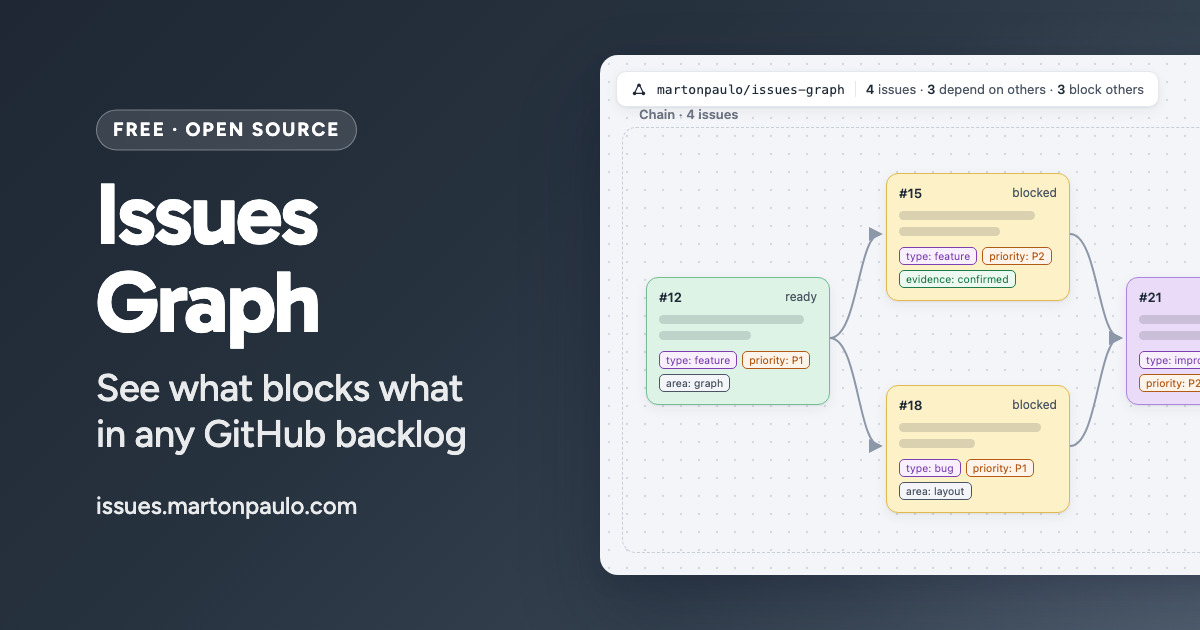
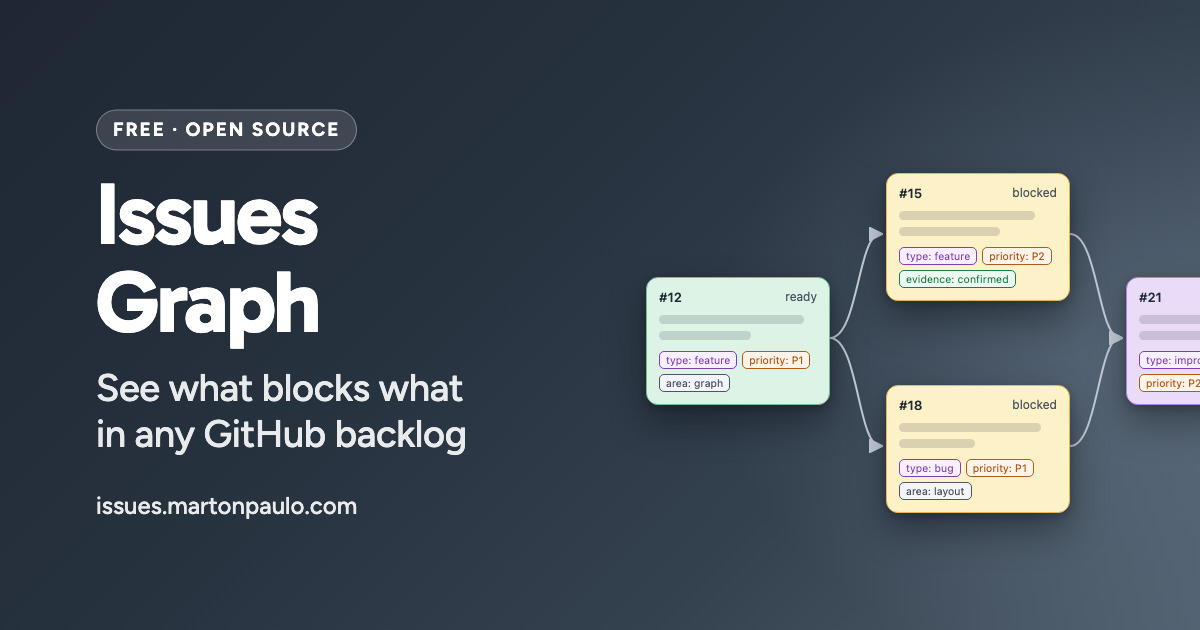
feat: frameless social card
The drawing now floats on the gradient without its container window, the counter
badges and frame lines are gone, and the visual's cut edges fade into the ground
(owner decision, 2026-09-11: a second card pattern for products whose content reads
on its own).

diff --git a/design/social-card/social-card.html b/design/social-card/social-card.html
@@ -36,7 +36,7 @@ h1 { margin: 0; font: 700 88px/1 "Gabarito", sans-serif; letter-spacing: -0.03em
 .card { --gradient: linear-gradient(135deg,#1e2733 0%,#27323f 40%,#34414f 70%,#51606f 100%); --glow: radial-gradient(640px 520px at 94% 55%,rgba(170,190,215,.22),transparent 65%); --ink: #fff; --ink-soft: rgba(255,255,255,.9);
         --pill-bg: rgba(255,255,255,.12); --pill-line: rgba(255,255,255,.34); }
 .canvas{left:600px;top:50%;transform:translateY(-50%);width:760px;height:520px;border-radius:18px;overflow:hidden;
- background:#f3f5f8 radial-gradient(circle,#d4dae2 1.3px,transparent 1.6px) 0 0/18px 18px}
+ background:none}
 .tool{position:absolute;left:16px;top:16px;display:flex;align-items:center;gap:10px;padding:9px 14px;background:#fff;border:1px solid #e3e7ee;border-radius:10px;
  box-shadow:0 1px 2px rgba(31,42,55,.06),0 4px 14px rgba(31,42,55,.06);font-size:13px;color:#4b5563;white-space:nowrap}
 .tool b{color:#1f2a37;font-weight:600}.tool .repo{font-family:ui-monospace,Menlo,monospace;color:#1f2a37;font-size:13px}
@@ -51,6 +51,10 @@ h1 { margin: 0; font: 700 88px/1 "Gabarito", sans-serif; letter-spacing: -0.03em
 .chips{display:flex;flex-wrap:wrap;gap:5px}.chips u{text-decoration:none;font-size:10.5px;padding:2px 6px;border-radius:5px;border:1px solid;white-space:nowrap}
 .c-type{color:#7e3fb0;border-color:#cfa9ec;background:#f8f0fe}.c-pri{color:#b45a17;border-color:#f1b98a;background:#fff4ea}
 .c-ev{color:#1f7a4a;border-color:#95d3ae;background:#ecf9f1}.c-area{color:#4b5563;border-color:#cbd2dc;background:#f3f5f8}
+.canvas.win{box-shadow:none}
+.frame{border-color:rgba(255,255,255,.28)}.frame span{color:rgba(255,255,255,.75)}
+.ic{box-shadow:0 18px 36px rgba(0,0,0,.35),0 3px 8px rgba(0,0,0,.2)}
+.edges path{stroke:#c3ccd8}.edges marker path{fill:#c3ccd8}
 </style>
 <div class="card">
   <div class="copy">
@@ -61,10 +65,8 @@ h1 { margin: 0; font: 700 88px/1 "Gabarito", sans-serif; letter-spacing: -0.03em
     <p class="domain">issues.martonpaulo.com</p>
   </div>
   <div class="win canvas ui">
-    <div class="tool"><svg width="16" height="16" viewBox="0 0 32 32"><g fill="none" stroke="#1f2a37" stroke-width="2.4" stroke-linecap="round"><path d="M13.4 10.8 8.8 21.2M18.6 10.8l4.6 10.4M10.8 24.8h10.4"/></g><g fill="#1f2a37"><circle cx="16" cy="8.4" r="3.6"/><circle cx="7.2" cy="24.8" r="3.6"/><circle cx="24.8" cy="24.8" r="3.6"/></g></svg><span class="repo">martonpaulo/issues-graph</span><span class="sep"></span><span><b>4</b> issues · <b>3</b> depend on others · <b>3</b> block others</span></div>
-    <div class="frame"><span>Chain · 4 issues</span></div>
-    <svg class="edges" width="760" height="520"><defs><marker id="ah" viewBox="0 0 10 10" refX="8" refY="5" markerWidth="7" markerHeight="7" orient="auto"><path d="M0 0L10 5L0 10z" fill="#8c97a8"/></marker></defs>
-<path d="M230 283 C258.0 283 258.0 179 280 179" fill="none" stroke="#8c97a8" stroke-width="2" marker-end="url(#ah)"/><path d="M230 283 C258.0 283 258.0 391 280 391" fill="none" stroke="#8c97a8" stroke-width="2" marker-end="url(#ah)"/><path d="M470 179 C498.0 179 498.0 283 520 283" fill="none" stroke="#8c97a8" stroke-width="2" marker-end="url(#ah)"/><path d="M470 391 C498.0 391 498.0 283 520 283" fill="none" stroke="#8c97a8" stroke-width="2" marker-end="url(#ah)"/></svg>
+    <svg class="edges" width="760" height="520"><defs><marker id="ah" viewBox="0 0 10 10" refX="8" refY="5" markerWidth="7" markerHeight="7" orient="auto"><path d="M0 0L10 5L0 10z" fill="#c3ccd8"/></marker></defs>
+<path d="M230 283 C258.0 283 258.0 179 280 179" fill="none" stroke="#c3ccd8" stroke-width="2" marker-end="url(#ah)"/><path d="M230 283 C258.0 283 258.0 391 280 391" fill="none" stroke="#c3ccd8" stroke-width="2" marker-end="url(#ah)"/><path d="M470 179 C498.0 179 498.0 283 520 283" fill="none" stroke="#c3ccd8" stroke-width="2" marker-end="url(#ah)"/><path d="M470 391 C498.0 391 498.0 283 520 283" fill="none" stroke="#c3ccd8" stroke-width="2" marker-end="url(#ah)"/></svg>
     <div class="ic ready" style="left:46px;top:222px"><div class="h">#12<i>ready</i></div><div class="t"><span class="bar" style="display:block;width:92%"></span><span class="bar" style="display:block;width:58%"></span></div><div class="chips"><u class="c-type">type: feature</u><u class="c-pri">priority: P1</u><u class="c-area">area: graph</u></div></div><div class="ic blocked" style="left:286px;top:118px"><div class="h">#15<i>blocked</i></div><div class="t"><span class="bar" style="display:block;width:86%"></span><span class="bar" style="display:block;width:64%"></span></div><div class="chips"><u class="c-type">type: feature</u><u class="c-pri">priority: P2</u><u class="c-ev">evidence: confirmed</u></div></div><div class="ic blocked" style="left:286px;top:330px"><div class="h">#18<i>blocked</i></div><div class="t"><span class="bar" style="display:block;width:90%"></span><span class="bar" style="display:block;width:48%"></span></div><div class="chips"><u class="c-type">type: bug</u><u class="c-pri">priority: P1</u><u class="c-area">area: layout</u></div></div><div class="ic att" style="left:526px;top:222px"><div class="h">#21<i>needs attention</i></div><div class="t"><span class="bar" style="display:block;width:84%"></span><span class="bar" style="display:block;width:70%"></span></div><div class="chips"><u class="c-type">type: improvement</u><u class="c-pri">priority: P2</u></div></div>
   </div>
 </div>
